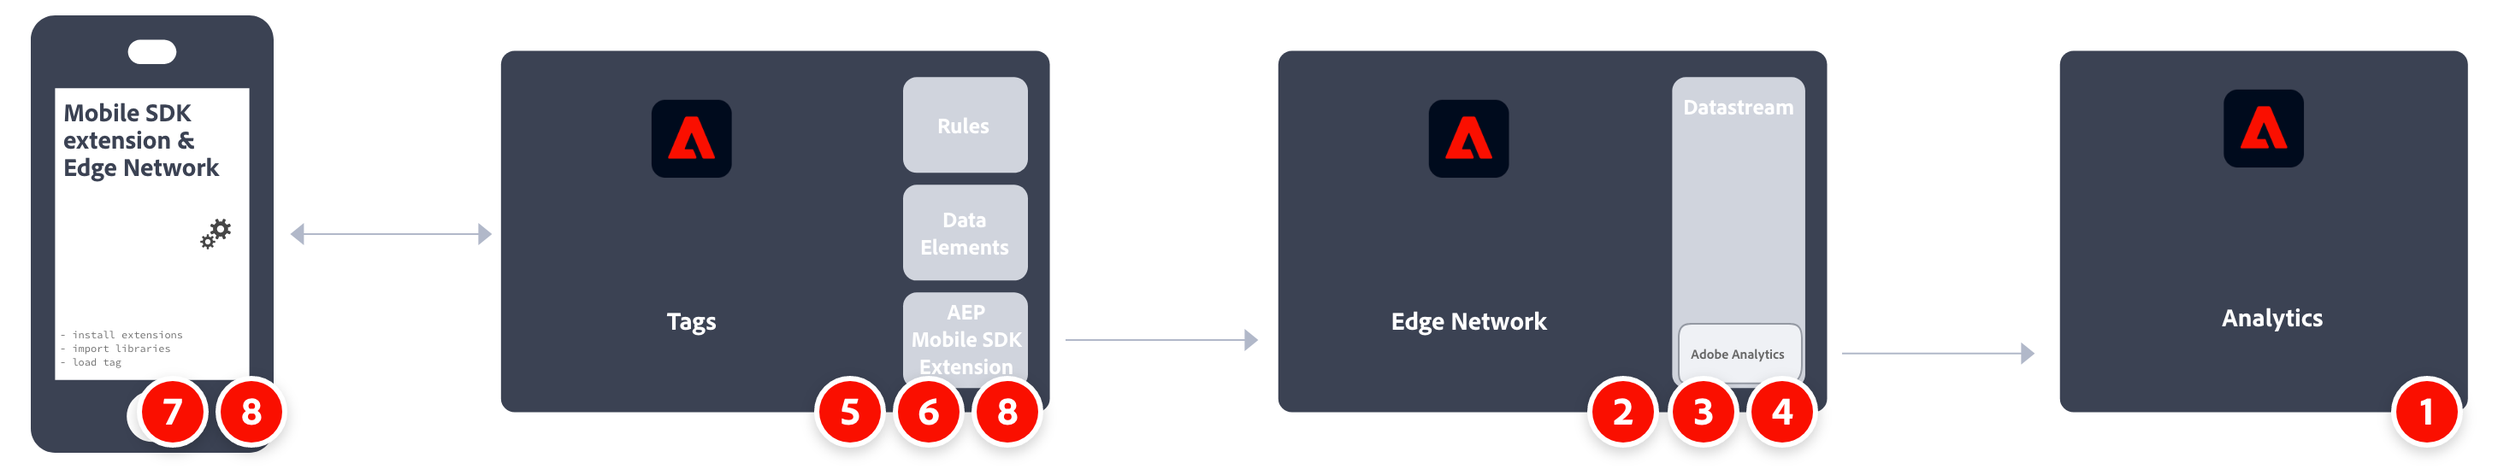
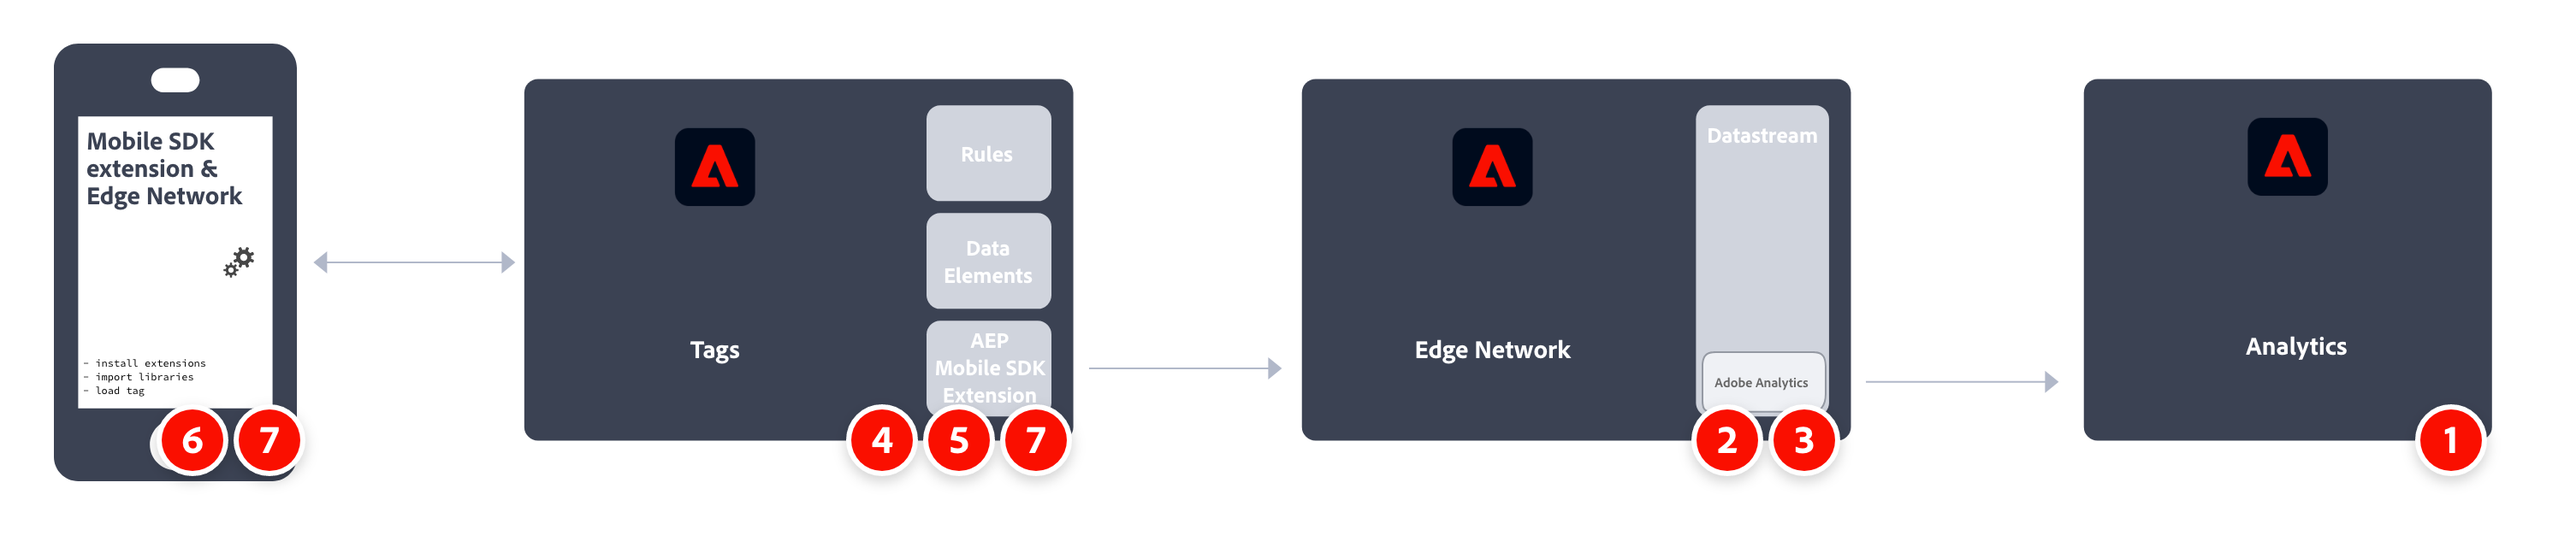
Removed setting up schemas

diff --git a/help/implement/aep-edge/mobile-sdk/overview.md b/help/implement/aep-edge/mobile-sdk/overview.md
@@ -33,46 +33,40 @@ A high-level overview of the implementation tasks:
 
 <tr>
 <td>2</td>
-<td><b>Setup schemas.</b>. To standardize data collection for use across applications that leverage Adobe Experience Platform, Adobe has created the open and publicly documented standard, Experience Data Model (XDM).</td>
-<td><a href="https://experienceleague.adobe.com/docs/experience-platform/xdm/ui/overview.html">Schemas UI overview</a></td>
-</tr>
-
-<tr>
-<td>3</td>
 <td><b>Configure a datastream</b>. A datastream represents the server-side configuration when implementing the Adobe Experience Platform Web SDK.</td>
 <td><a href="https://experienceleague.adobe.com/docs/experience-platform/edge/datastreams/configure.html">Configure a datastream<a></td> 
 </tr>
 
-<td>4</td>
+<td>3</td>
 <td><b>Add an Adobe Analytics service</b> to your datastream. That service controls whether and how data is sent to Adobe Analytics.</td>
 <td><a href="https://experienceleague.adobe.com/docs/experience-platform/edge/datastreams/configure.html#analytics">Add Adobe Analytics service to a datastream</a></td>
 </tr>
 
 <tr>
-<td>5</td>
+<td>4</td>
 <td><b>Create a mobile property</b>. A property is a container that you fill with extensions, rules, data elements, and libraries.</td>
 <td><a href="https://developer.adobe.com/client-sdks/documentation/getting-started/create-a-mobile-property/">Set up a mobile property</a></tr>
 
 <tr>
-<td>6</td>
+<td>5</td>
 <td><b>Install the Adobe Experience Platform Edge Network extension</b> in the mobile tag property and configure the datastream in the extension.</td>
 <td><a href="https://developer.adobe.com/client-sdks/documentation/edge-network/">Adobe Experience Platform Edge Network</a>
 </tr>
 
 <tr>
-<td>7</td>
+<td>6</td>
 <td><b>Use code in your app</b> to register the necessary extensions and load your tag configuration.</td>
 <td><a href="https://developer.adobe.com/client-sdks/documentation/user-guides/getting-started-with-platform/overview/#set-up-the-configuration">Set up the configuration</a></td>
 </tr>
 
 <tr>
-<td>8</td>
+<td>7</td>
 <td><b>Implement and test functionality</b> using combination of tag's data elements, rules, additional extensions, and SDK API calls in your app. Inspect, validate, and debug data collection and experiences for your mobile application.</td>
 <td><a href="https://developer.adobe.com/client-sdks/documentation/user-guides/getting-started-with-platform/overview/#use-the-sample-application">Use the sample application</a>
 </tr>
 
 <tr>
-<td>9</td>
+<td>8</td>
 <td><b>Extend and validate your mobile app implementation</b> before pushing it out to production.</td>
 <td></td> 
 </tr>
